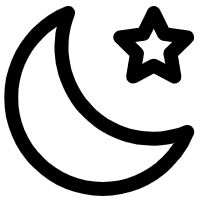
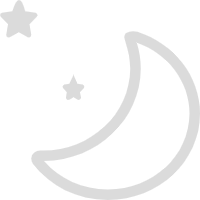
修改暗色主题切换按钮的图片

diff --git a/HuberyBlog/templates/blog/home.html b/HuberyBlog/templates/blog/home.html
@@ -31,7 +31,6 @@
       max-height: 30px;
       cursor: pointer;
       margin-left: -5px;
-    {#background-color: #FF5722;#}
     }
   </style>
 {% endblock %}
@@ -78,8 +77,14 @@
               <li><a href="https://weibo.com/5049512278/profile?rightmod=1&wvr=6&mod=personinfo&is_all=1"
                      target="_blank" title="微博"><i class="layui-icon layui-icon-login-weibo"></i></a></li>
               <li><a href="/xadmin/" target="_blank" title="后台系统"><i class="layui-icon layui-icon-console"></i></a></li>
-              <li><a href="javascript:void(0);"><img class="float-right" id="theme-img" src="{% static 'image/light.png' %}"
+              {% if request.COOKIES.toggleTheme == "dark" %}
+                   <li><a href="javascript:void(0);"><img class="float-right" id="theme-img" src="{% static 'image/night.png' %}"
                                   alt="theme-toggle" title="切换主题"></a></li>
+                {% else %}
+                <li><a href="javascript:void(0);"><img class="float-right" id="theme-img" src="{% static 'image/light.png' %}"
+                                  alt="theme-toggle" title="切换主题"></a></li>
+              {% endif %}
+
             </ul>
           </div>
         </div>
@@ -256,7 +261,6 @@
 
       // 删除暗色主题
       function removeDarkTheme() {
-          console.log($('#theme-css-dark'))
           $('#theme-css-dark').remove();
       }
 

diff --git a/HuberyBlog/static/css/night.css b/HuberyBlog/static/css/night.css
@@ -154,7 +154,3 @@ body > div.layui-container > div {
 .layui-elem-field {
     border-style:none !important;
 }
-
-#theme-img {
-    background-color: #FF5722 !important;
-}
